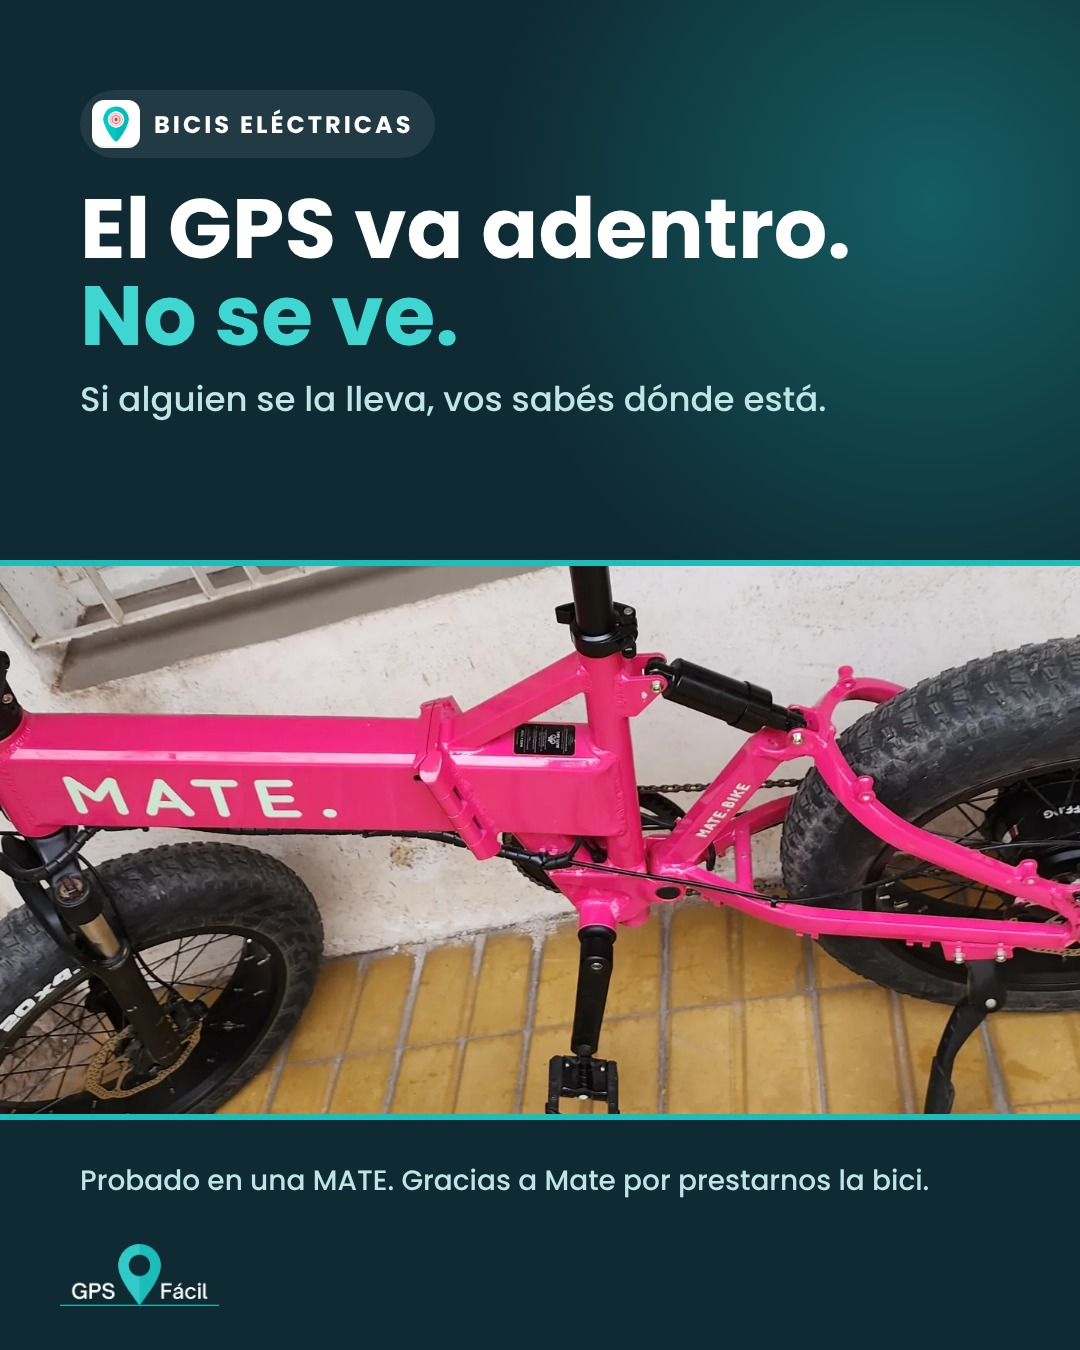
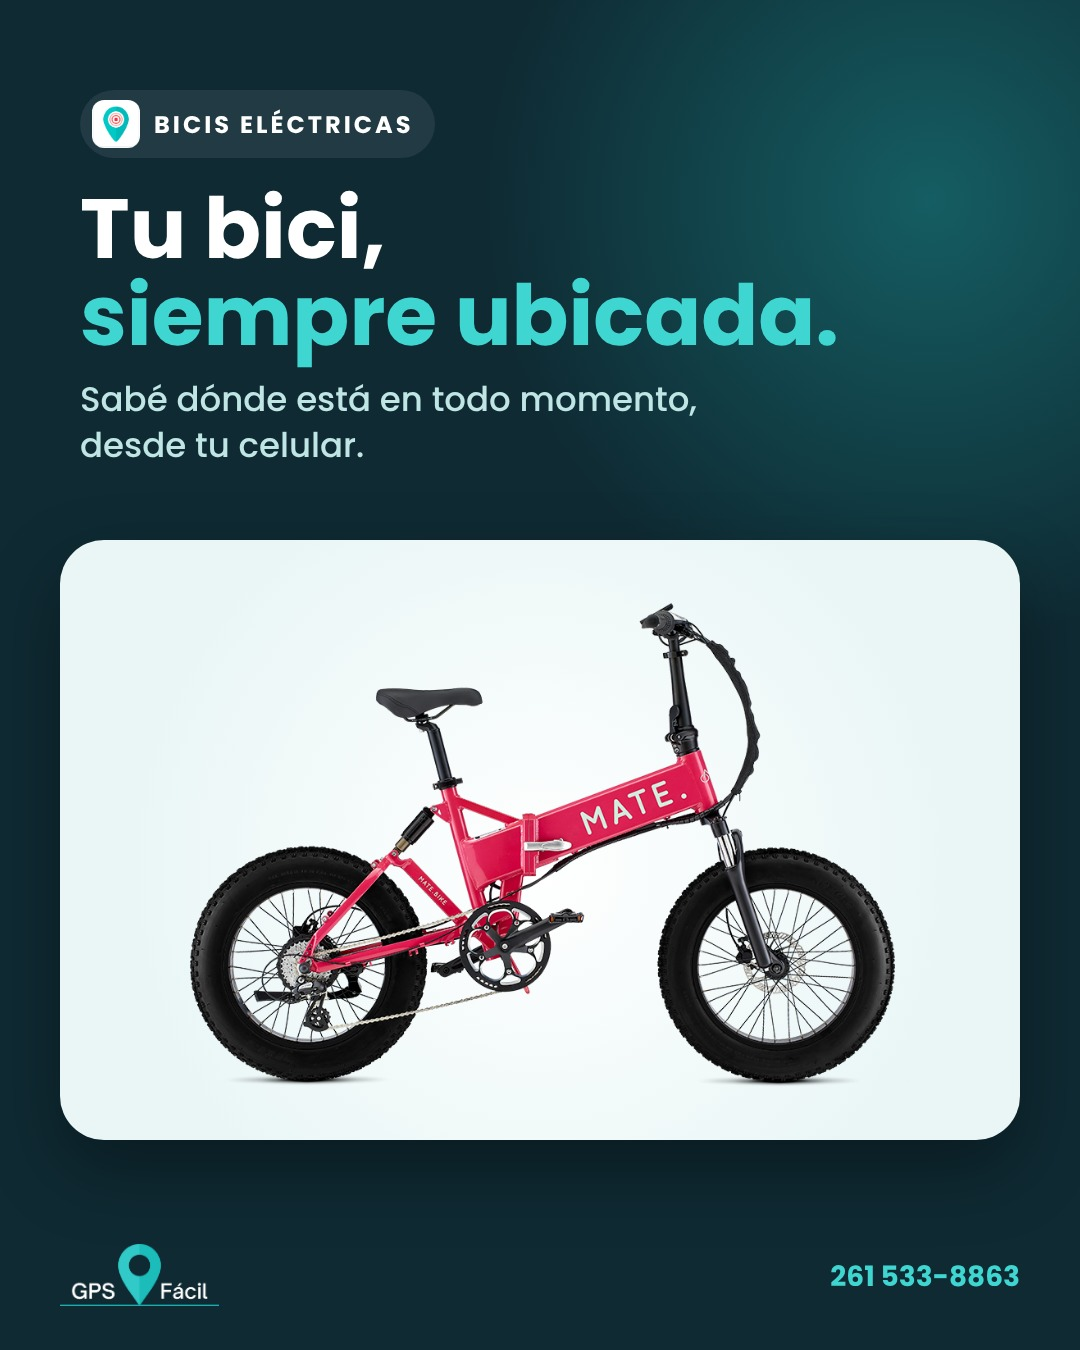
Bici: foto de producto, sin frases de equipo interno ni agradecimiento
Claude-Session: https://claude.ai/code/session_01FAC7ZkRtCkyaGZuAT4DcsL

diff --git a/tools/gen_bici.py b/tools/gen_bici.py
@@ -1,11 +1,12 @@
 from playwright.sync_api import sync_playwright
 CSS=open('gen.py').read().split("CSS='''")[1].split("'''")[0]
 h='''<div class="glow" style="right:-300px;top:-250px"></div>
-<div class="t"><span class="k"><img src="ic_radar.png">BICIS ELÉCTRICAS</span><h1>El GPS va adentro.<br><span>No se ve.</span></h1>
-<p>Si alguien se la lleva, vos sabés dónde está.</p></div>
-<div style="position:absolute;left:0;right:0;top:560px;height:560px;background:url(bici.png) center/cover;border-top:6px solid #1EBDBA;border-bottom:6px solid #1EBDBA"></div>
-<div style="position:absolute;left:80px;right:80px;top:1160px;font-weight:500;font-size:28px;color:#BFE6E4">Probado en una MATE. Gracias a Mate por prestarnos la bici.</div>
-<div class="mk"><img src="logo_blanco.png"></div>'''
+<div class="t"><span class="k"><img src="ic_radar.png">BICIS ELÉCTRICAS</span><h1>Tu bici,<br><span>siempre ubicada.</span></h1>
+<p>Sabé dónde está en todo momento,<br>desde tu celular.</p></div>
+<div style="position:absolute;left:60px;right:60px;top:540px;height:600px;border-radius:44px;background:radial-gradient(circle at 50% 55%,#ffffff 0%,#EAF6F6 70%);box-shadow:0 30px 70px rgba(0,0,0,.35);overflow:hidden">
+<img src="bici2.png" style="position:absolute;left:50%;top:50%;width:820px;transform:translate(-50%,-50%)"></div>
+<div class="mk"><img src="logo_blanco.png"></div>
+<div style="position:absolute;right:60px;bottom:52px;font-weight:700;font-size:28px;color:#3FD6D2">261 533-8863</div>'''
 with sync_playwright() as p:
     b=p.chromium.launch(); pg=b.new_page(viewport={'width':1080,'height':1350})
     open('s.html','w').write(f'<html><head><style>{CSS}</style></head><body>{h}</body></html>')
